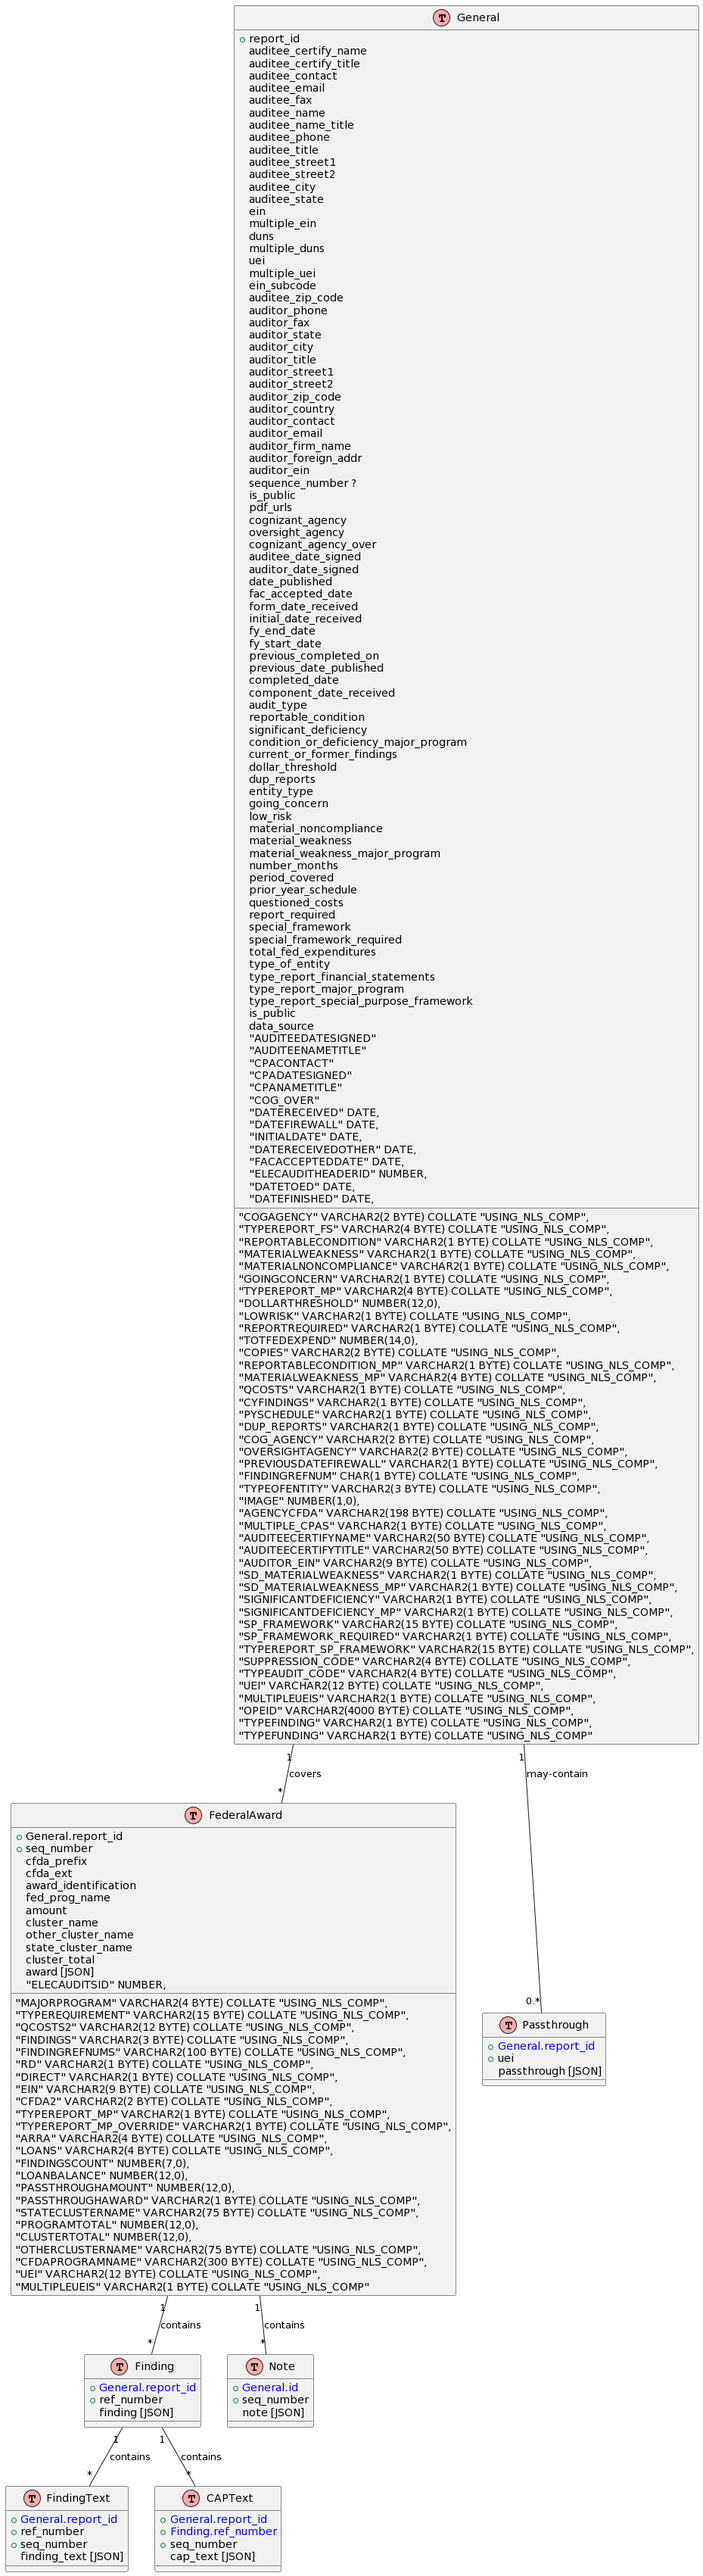
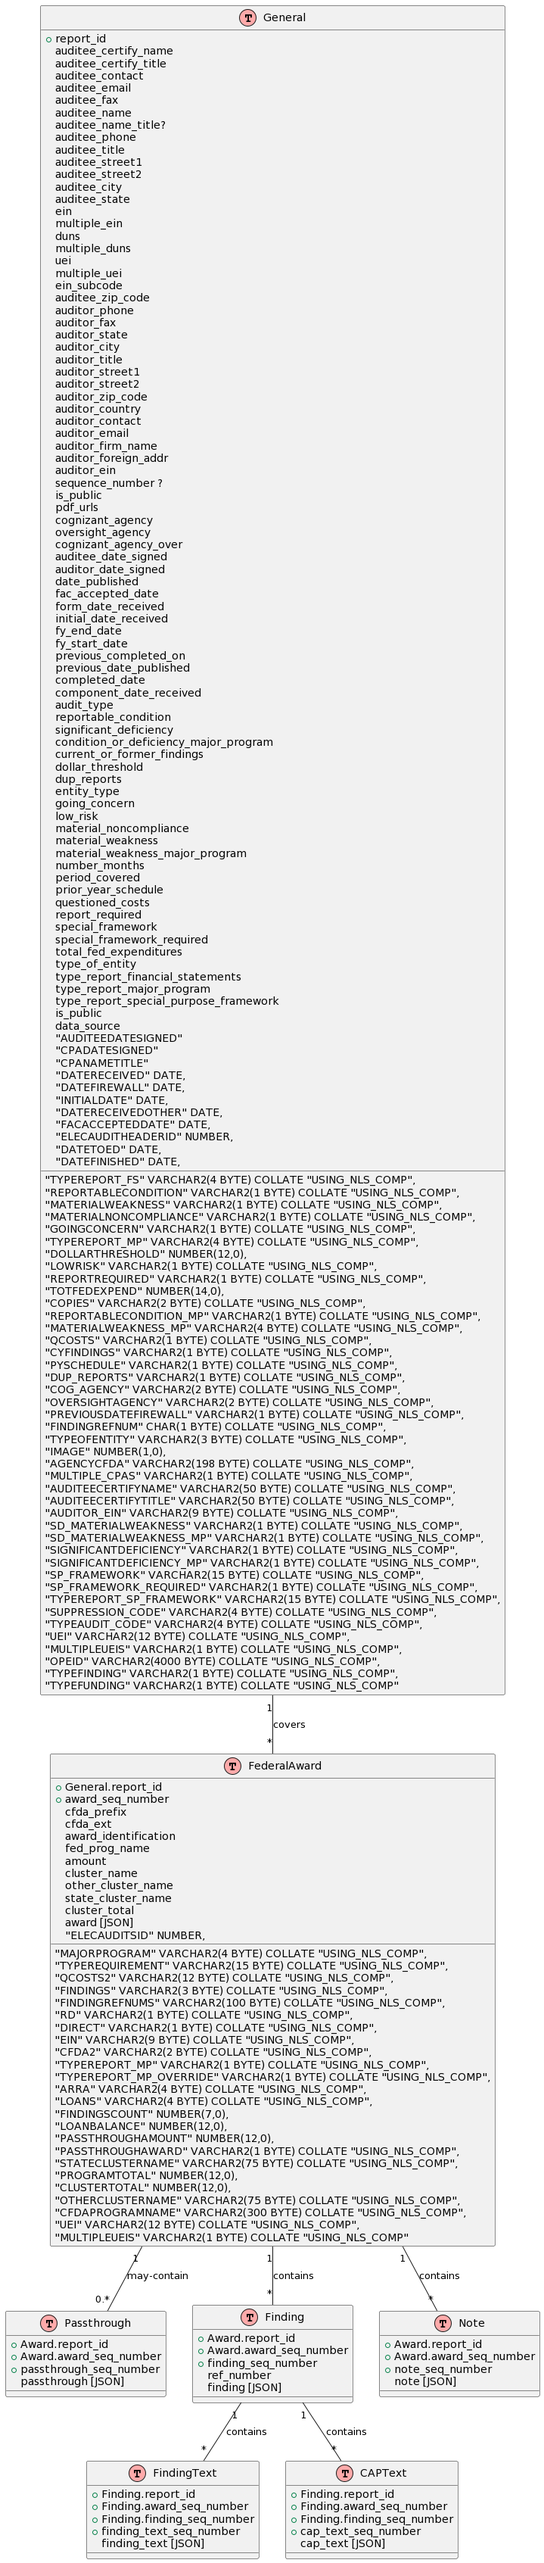
WIP data model changes

diff --git a/backend/dissemination/data-model/fac.md b/backend/dissemination/data-model/fac.md
@@ -150,7 +150,7 @@ TABLE(General, "General") {
 
 TABLE(Award, "FederalAward") {
   + General.report_id
-  + seq_number
+  + award_seq_number
   cfda_prefix
   cfda_ext
   award_identification
@@ -191,42 +191,48 @@ TABLE(Award, "FederalAward") {
 }
 
 TABLE(Passthrough, "Passthrough") {
-  + FOREIGN_KEY(General.report_id)
-  + uei
+  + Award.report_id
+  + Award.award_seq_number
+  + passthrough_seq_number
   passthrough [JSON]
 }
 
 
 TABLE(Finding, "Finding") {
-  + FOREIGN_KEY(General.report_id)
-  + ref_number
+  + Award.report_id
+  + Award.award_seq_number
+  + finding_seq_number
+  ref_number
   finding [JSON]
 }
 
 TABLE(Note, "Note") {
-  + FOREIGN_KEY(General.id)
-  + seq_number
+  + Award.report_id
+  + Award.award_seq_number
+  + note_seq_number
   note [JSON]
 }
 
 
 TABLE(FindingText, "FindingText") {
-  + FOREIGN_KEY(General.report_id)
-  + ref_number
-  + seq_number
+  + Finding.report_id
+  + Finding.award_seq_number
+  + Finding.finding_seq_number
+  + finding_text_seq_number
   finding_text [JSON]
 }
 
 TABLE(CAPText, "CAPText") {
-  + FOREIGN_KEY(General.report_id)
-  + FOREIGN_KEY(Finding.ref_number)
-  + seq_number
+  + Finding.report_id
+  + Finding.award_seq_number
+  + Finding.finding_seq_number
+  + cap_text_seq_number
   cap_text [JSON]
 }
 
 
 General "1" -- "*" Award : covers
-General "1" -- "0.*" Passthrough : may-contain
+Award "1" -- "0.*" Passthrough : may-contain
 Award "1" -- "*" Finding : contains
 Finding "1" -- "*" FindingText : contains
 Finding "1" -- "*" CAPText : contains
